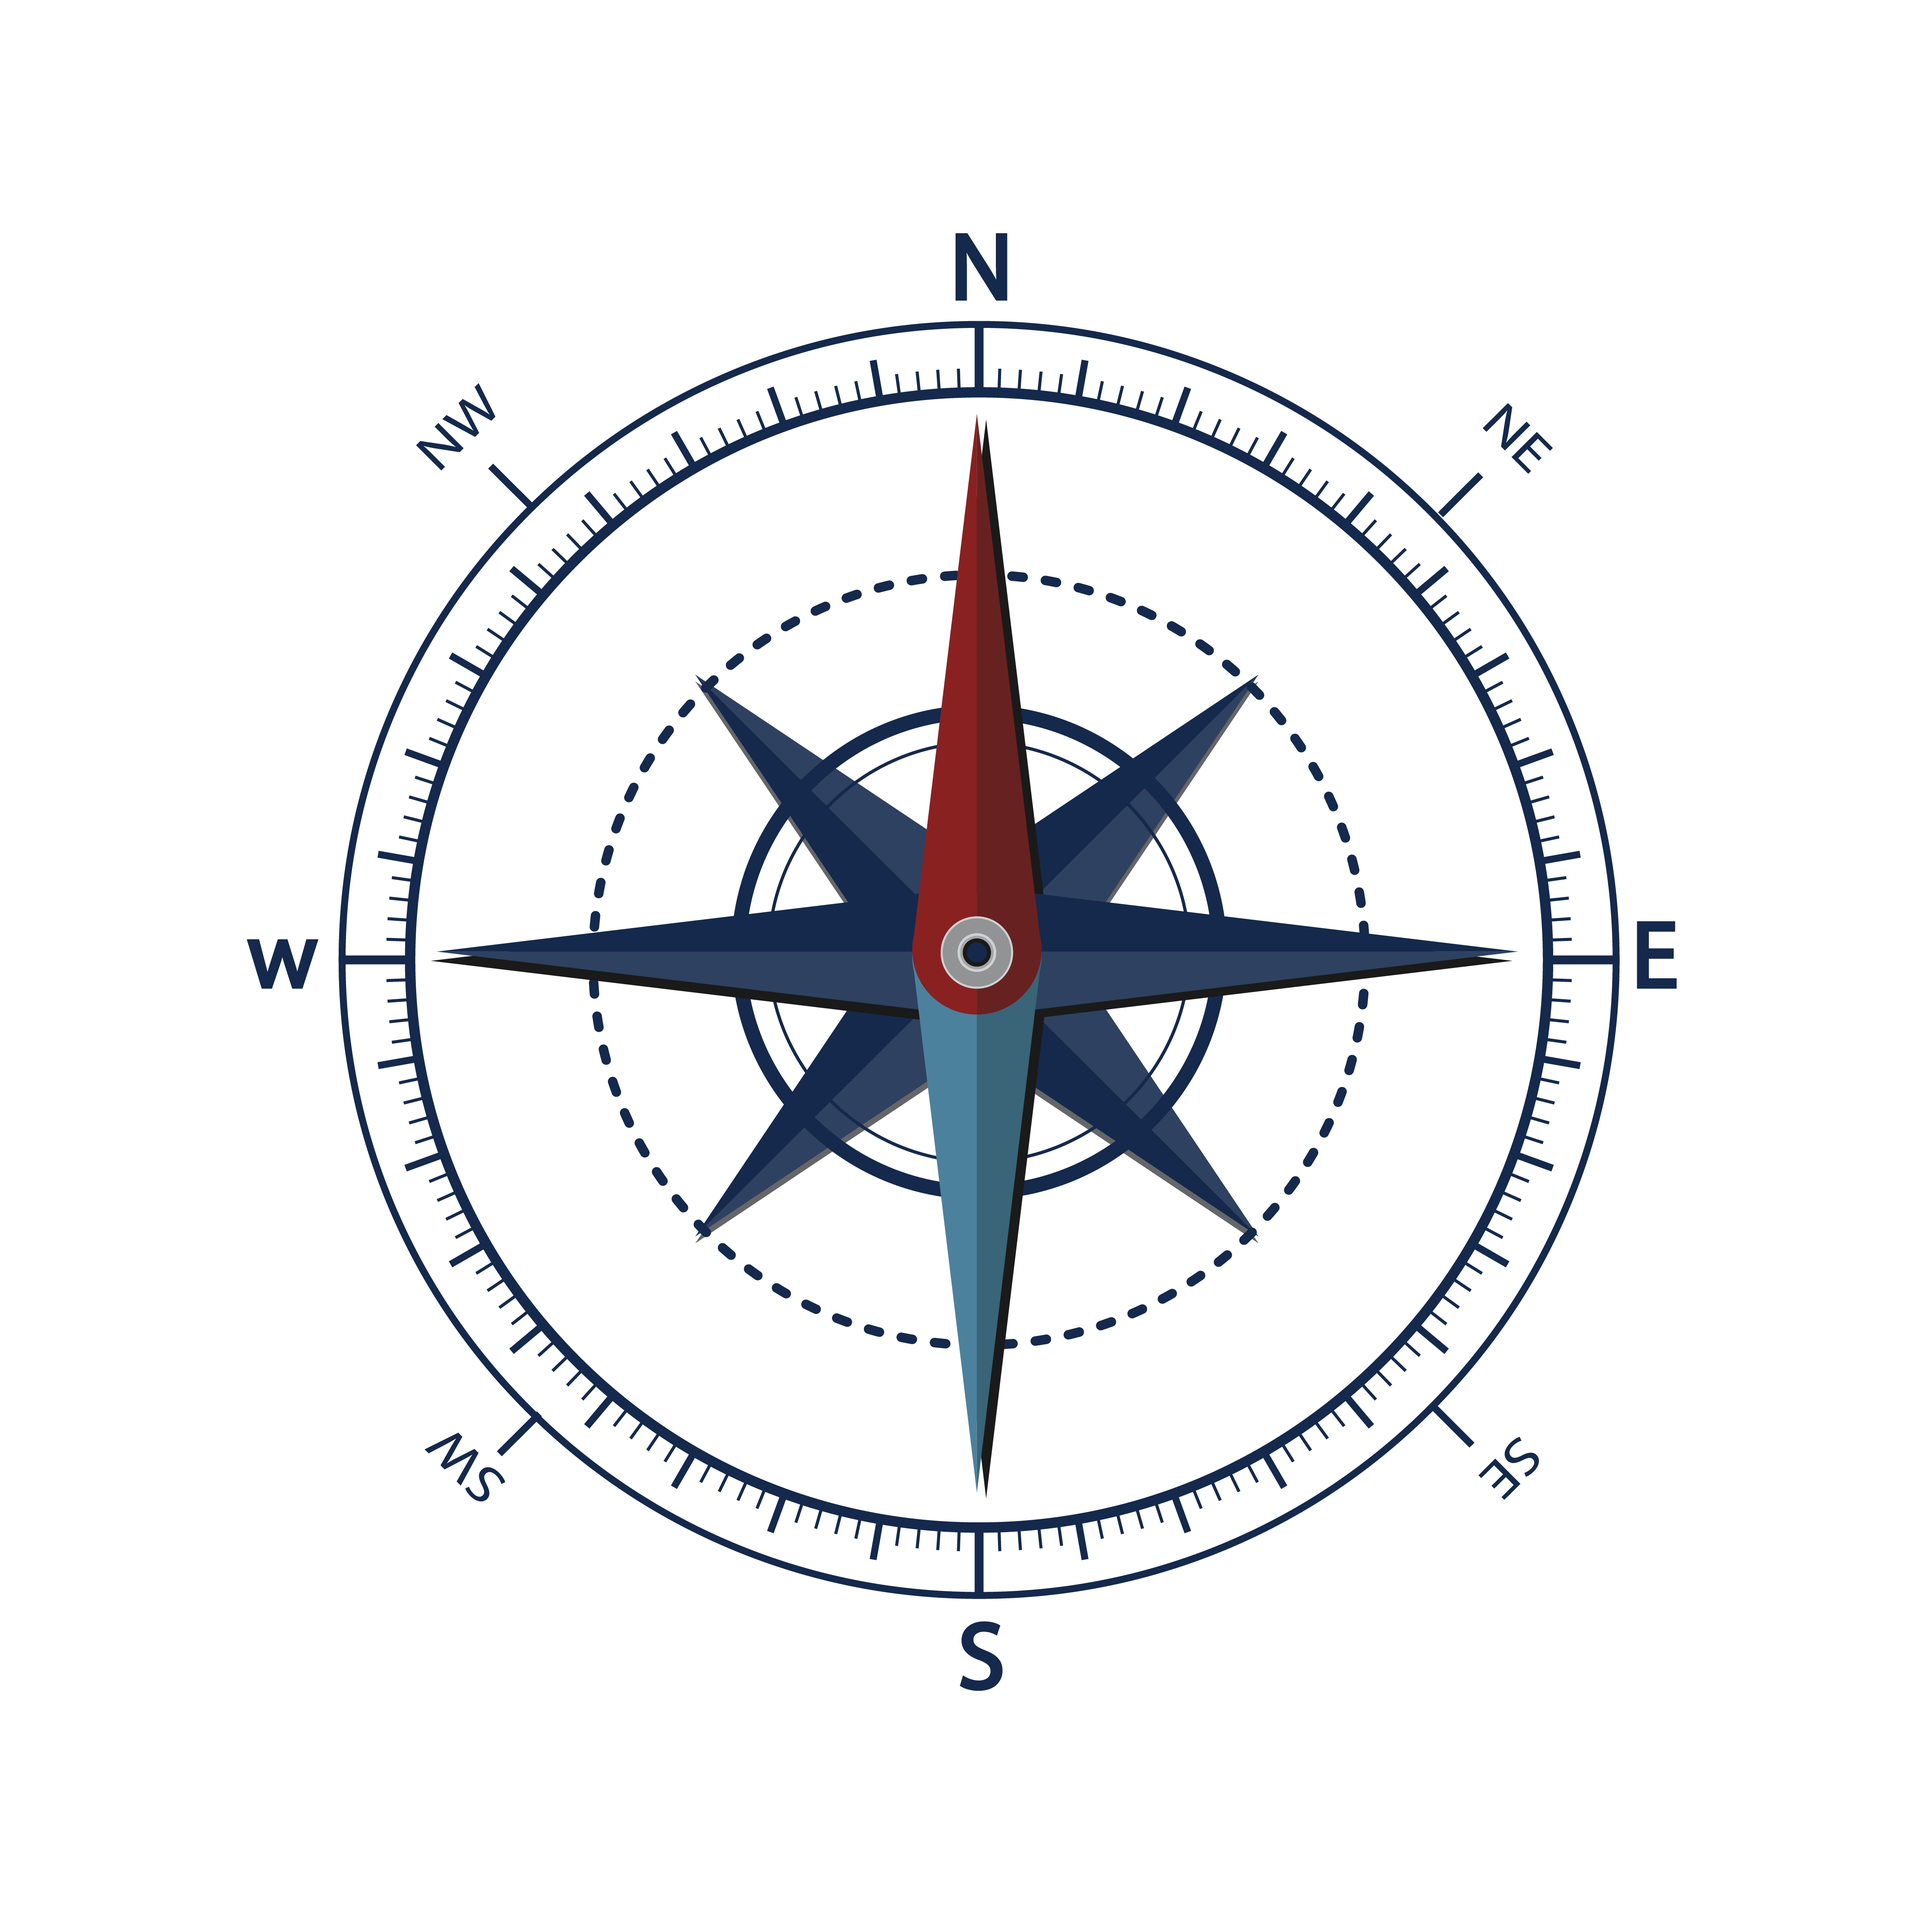
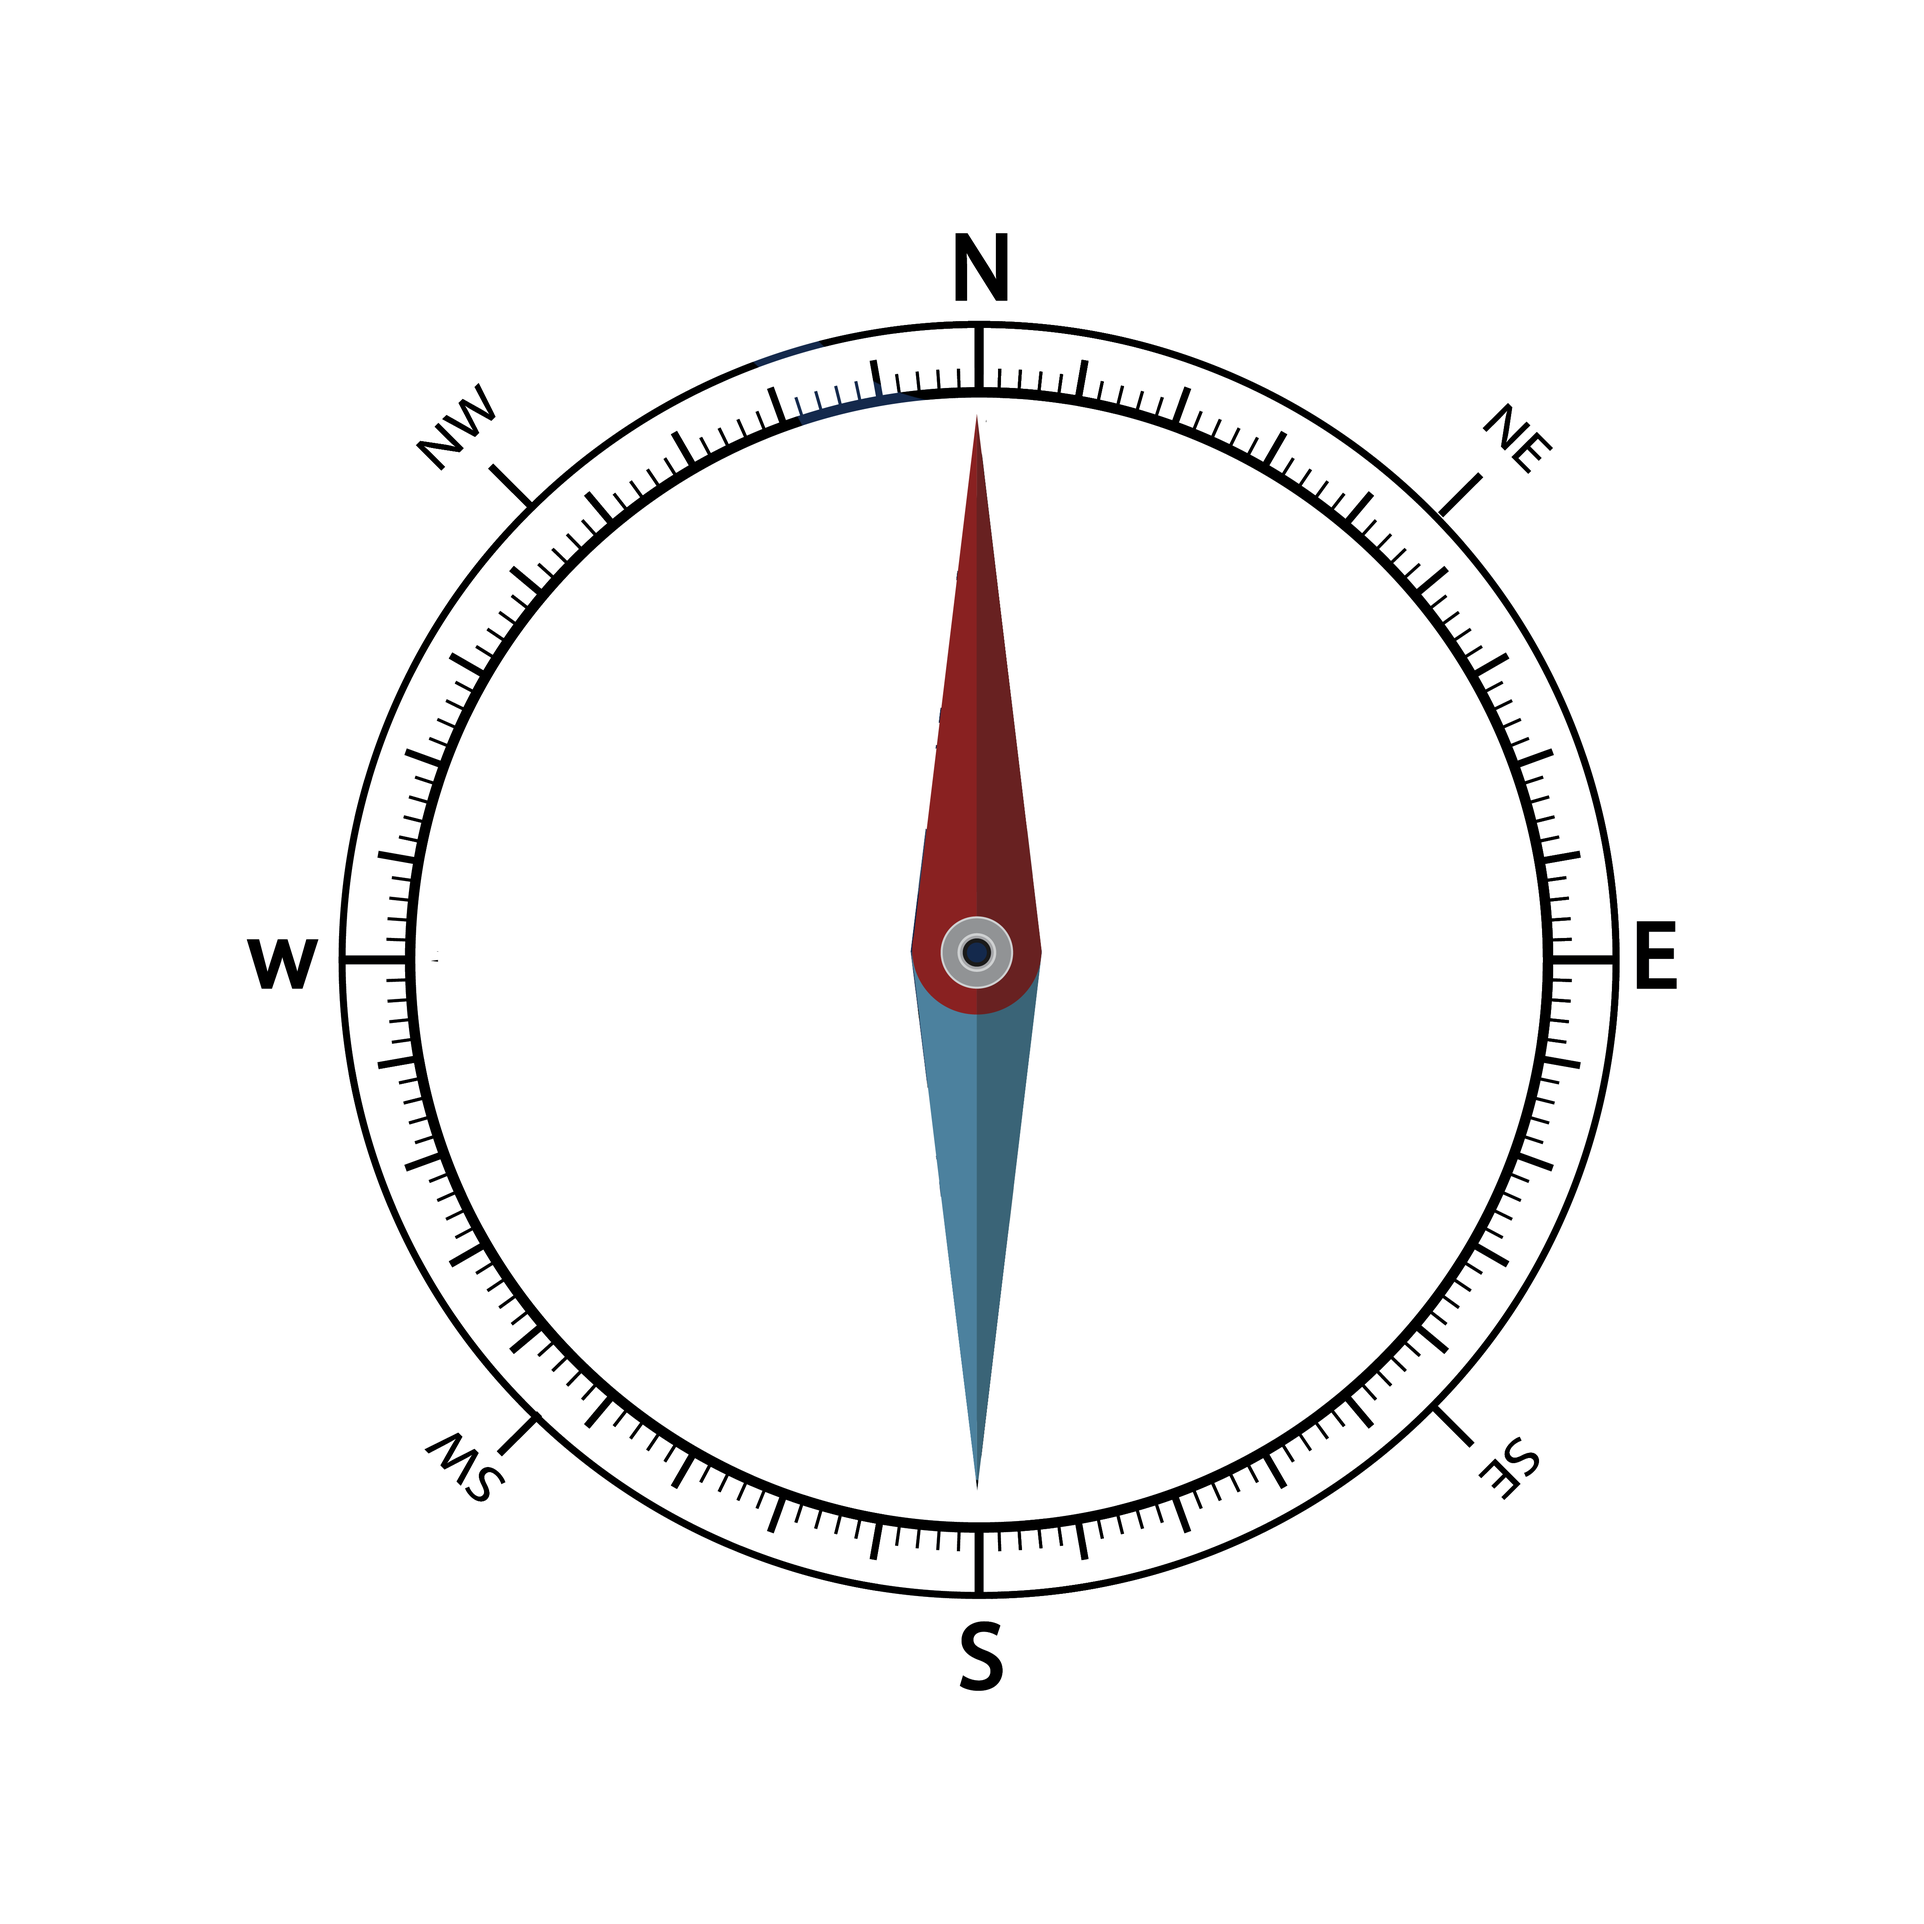
Enhance Qibla Shape

diff --git a/components/QibalDirection.tsx b/components/QibalDirection.tsx
@@ -6,6 +6,8 @@ import { Image, View, Text, StyleSheet, ActivityIndicator } from 'react-native';
 import { moderateScale } from 'react-native-size-matters';
 import { ThemedText } from '@/components/ThemedText';
 import { useQiblaCompass } from '@/scripts/Qibla';
+import { useSelector } from 'react-redux';
+import { RootState } from '@/contexts/store';
 
 
 interface QilaDirectionAttributes {
@@ -30,6 +32,7 @@ const QiblaDirection = forwardRef(
             isLoading,
             reinitCompass,
         } = useQiblaCompass();
+        const theme = useSelector((state: RootState) => state.settings.theme);
 
         useImperativeHandle(
             ref,
@@ -74,7 +77,7 @@ const QiblaDirection = forwardRef(
                     }}
                 >
                     <Image
-                        source={compassImage || require('../assets/images/compassDark.png')}
+                        source={theme=='dark'?require('../assets/images/compassDark.png'):require('../assets/images/compass.png')}
                         style={[
                             styles.image,
                             {
@@ -105,7 +108,7 @@ const QiblaDirection = forwardRef(
                         }}
                     >
                         <Image
-                            source={kaabaImage || require('../assets/images/kaaba.png')}
+                            source={theme=='dark'?require('../assets/images/kaabaDark.png'):require('../assets/images/kaaba.png')}
                             style={{
                                 resizeMode: 'center',
                                 height: 100,

diff --git a/scripts/Qibla.js b/scripts/Qibla.js
@@ -33,12 +33,12 @@ export const useQiblaCompass = () => {
             setIsLoading(false);
             return;
         }
-        const { status } = await Location.requestForegroundPermissionsAsync();
-        if (status !== 'granted') {
-            setError('Location permission not granted');
-            setIsLoading(false);
-            return;
-        }
+        // const { status } = await Location.requestForegroundPermissionsAsync();
+        // if (status !== 'granted') {
+        //     setError('Location permission not granted');
+        //     setIsLoading(false);
+        //     return;
+        // }
 
         try {
             const location = await Location.getCurrentPositionAsync({});
@@ -52,7 +52,6 @@ export const useQiblaCompass = () => {
 
     useEffect(() => {
         initCompass();
-
         return () => {
             unsubscribe();
         };
